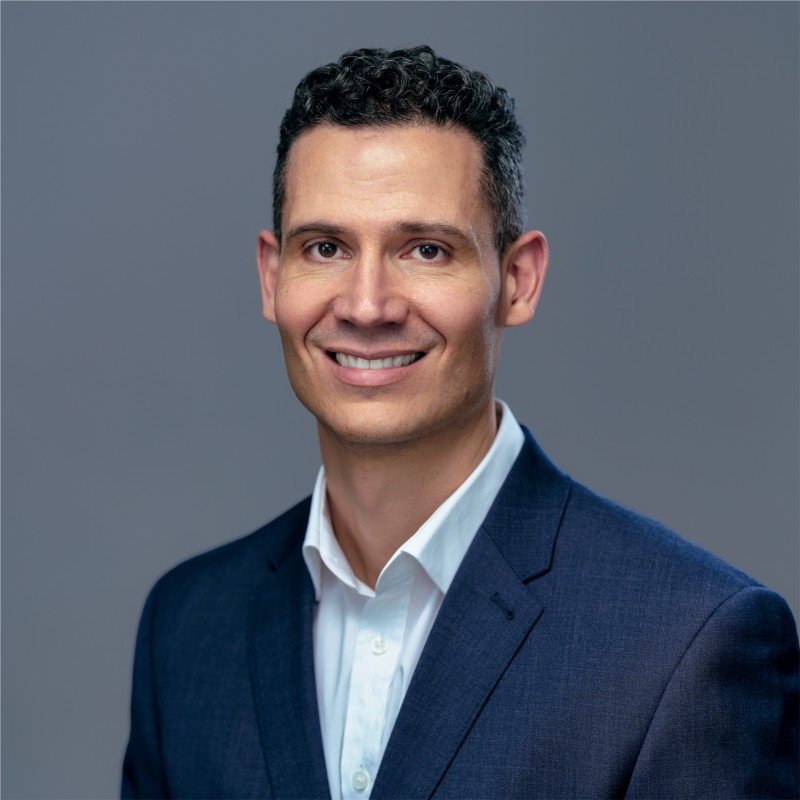
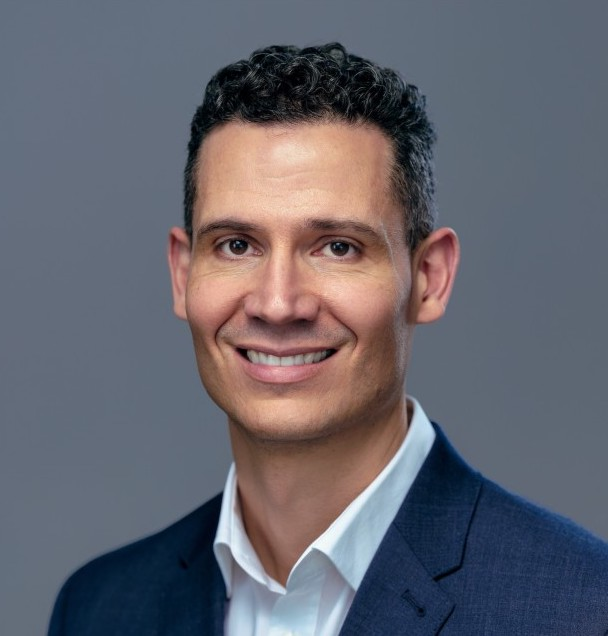
docs: support page updates; added two new community experts; updated image css to handle different aspect-ratios; cropped davide's image to be more of a headshot like the others (let me know if you would like me to revert); other: updated version of docusarus to 3 on readme

diff --git a/src/css/custom.css b/src/css/custom.css
@@ -64,15 +64,17 @@ html[data-theme="dark"] .docusaurus-highlight-code-line {
 }
 
 table.support * {
-  background-color: transparent
+  background-color: transparent;
 }
 
 table.support img.community-expert-image {
   align-content: center;
   -webkit-filter: grayscale(100%);
   filter: grayscale(100%);
-  width: 150px;
-  height: 150px;
+  max-width: 150px;
+  max-height: 150px;
+  width: auto;
+  height: auto;
 }
 
 table.support span.name {

diff --git a/src/pages/support.md b/src/pages/support.md
@@ -40,13 +40,16 @@ Create a post with the details of your request and tag a community expert.
    <thead>
       <tr>
          <th><img class="community-expert-image" src="/img/support/community-expert-davide-bacci.jpg"/><br /><span class="name">Davide Bacci</span></th>
-         <th><img class="community-expert-image" src="/img/support/community-expert-madison-giammaria.jpg"/><br /><span class="name">Madison Giammaria</span></th>
+         <th><img class="community-expert-image" src="/img/support/community-expert-madison-giammaria.jpg"/><br /><span class="name">Madison Giammaria</span></th><th><img class="community-expert-image" src="/img/support/community-expert-andrzej-leszkiewicz.png"/><br /><span class="name">Andrzej Leszkiewicz</span></th>
+         <th><img class="community-expert-image" src="/img/support/community-expert-isin-kosemen.png"/><br /><span class="name">Isin Kosemen</span></th>
       </tr>
    </thead>
    <tbody>
       <tr>
-         <td>Stack Overflow: <a href="https://stackoverflow.com/users/18345037/davide-bacci">Davide Bacci</a></td>
-         <td>Power BI Forums: <a href="https://community.fabric.microsoft.com/t5/user/viewprofilepage/user-id/124852">giammariam</a></td>
+         <td>Stack Overflow:<br /><a href="https://stackoverflow.com/users/18345037/davide-bacci">Davide Bacci</a></td>
+         <td>Power BI Forums:<br /><a href="https://community.fabric.microsoft.com/t5/user/viewprofilepage/user-id/124852">GiammariaM</a></td>
+          <td>GitHub:<br /><a href="https://github.com/avatorl/Deneb-Vega-Help">Repository</a></td>
+           <td>GitHub:<br /><a href="https://github.com/isinkosemen/Deneb-Vega-Vega-Lite-help/issues">Repository</a></td>
       </tr>
    </tbody>
 </table>

diff --git a/README.md b/README.md
@@ -1,6 +1,6 @@
 # Website
 
-This website is built using [Docusaurus 2](https://docusaurus.io/), a modern static website generator.
+This website is built using [Docusaurus 3](https://docusaurus.io/), a modern static website generator.
 
 ### Installation
 
